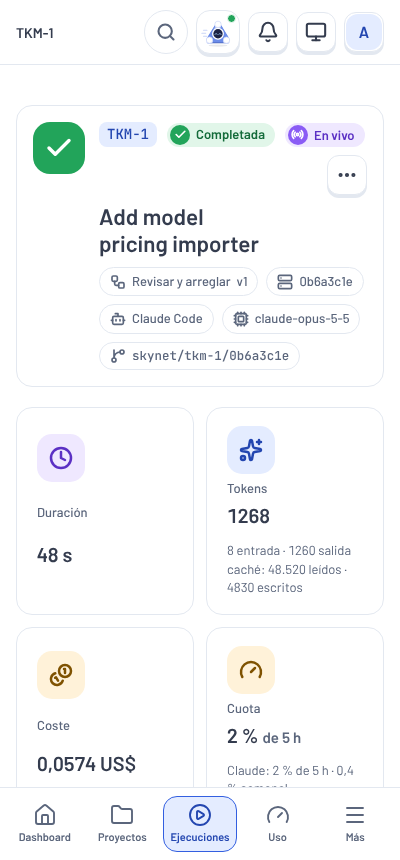
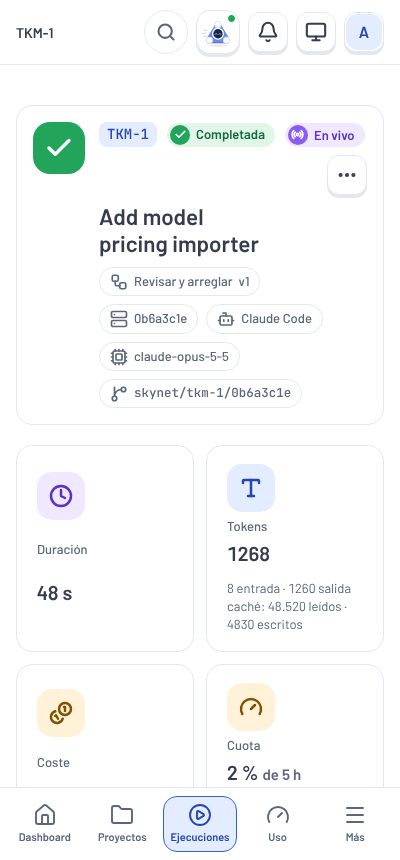
IC-A - Iconos del paquete en la página de ejecución
La cabecera (etiquetas y tarjetas) y las pestañas de una ejecución usan
<Icon>, así siguen el paquete elegido; con Ilustrados o ChatGPT las
tarjetas llevan el icono grande y suelto, como en el Resumen.

Claude-Session: https://claude.ai/code/session_01WdvCwqrrdnBTAy5VicARds

diff --git a/web/src/components/run/RunHeader.tsx b/web/src/components/run/RunHeader.tsx
@@ -1,18 +1,5 @@
 import { useMutation, useQuery, useQueryClient } from '@tanstack/react-query'
-import {
-  Bot,
-  Clock,
-  Coins,
-  Cpu,
-  FlaskConical,
-  Gauge,
-  GitBranch,
-  Server,
-  Sparkles,
-  Square,
-  Workflow,
-  type LucideIcon,
-} from 'lucide-react'
+import { Square } from 'lucide-react'
 import { useState, type ReactNode } from 'react'
 import { Link, useNavigate } from 'react-router'
 import { api, type AgentRun, type Run } from '../../api'
@@ -38,6 +25,7 @@ import { Pill } from '../ui/Pill'
 import { SimulatedPill } from '../ui/SimulatedPill'
 import { statusIcon, TONE_BADGE } from '../ui/statusIcons'
 import { Icon } from '../icons/Icon'
+import { useIconPack } from '../icons/pack'
 import type { IconName } from '../icons/registry'
 import { headlineShare, sharesByProvider, sharesLine } from '../usage/quotaFormat'
 import { AgentActions } from './AgentActions'
@@ -151,18 +139,18 @@ export function RunHeader({
           <h1>{run.workItemTitle ?? 'Ejecución'}</h1>
           <ul className="hero-chips" aria-label="Detalles de la ejecución">
             {run.workflow && (
-              <Chip icon={Workflow} label="Workflow">
+              <Chip icon="workflows" label="Workflow">
                 <Link to={`/workflows/${encodeURIComponent(run.workflow.key)}`}>
                   {run.workflow.name ?? run.workflow.key}
                 </Link>{' '}
                 v{run.workflow.version}
               </Chip>
             )}
-            <Chip icon={Server} label="Runner">
+            <Chip icon="runners" label="Runner">
               {runner?.name ?? (runnerId ? runnerId.slice(0, 8) : 'sin asignar')}
             </Chip>
             {provider && (
-              <Chip icon={Bot} label="Proveedor">
+              <Chip icon="agent" label="Proveedor">
                 {providerName(provider)}
                 {simulated && (
                   <>
@@ -173,12 +161,12 @@ export function RunHeader({
               </Chip>
             )}
             {model && (
-              <Chip icon={Cpu} label="Modelo">
+              <Chip icon="model" label="Modelo">
                 {model}
               </Chip>
             )}
             {branch && (
-              <Chip icon={GitBranch} label="Rama">
+              <Chip icon="branch" label="Rama">
                 <span className="mono">{branch}</span>
               </Chip>
             )}
@@ -234,11 +222,11 @@ export function RunHeader({
         />
       )}
       <dl className="kpis run-kpis">
-        <Kpi icon={Clock} tone="live" label="Duración">
+        <Kpi icon="duration" tone="live" label="Duración">
           {formatDuration(elapsed(run.startedAt ?? run.createdAt, run.finishedAt, now))}
         </Kpi>
         <Kpi
-          icon={Sparkles}
+          icon="prompt"
           tone="primary"
           label="Tokens"
           sub={
@@ -259,7 +247,7 @@ export function RunHeader({
           {noTokens ? '—' : formatNumber((totals.inputTokens ?? 0) + (totals.outputTokens ?? 0))}
         </Kpi>
         <Kpi
-          icon={Coins}
+          icon="cost"
           tone="warn"
           label="Coste"
           sub={totals.costUsd == null && running && 'Llega al terminar'}
@@ -267,7 +255,7 @@ export function RunHeader({
           {formatCost(totals.costUsd)}
         </Kpi>
         <Kpi
-          icon={Gauge}
+          icon="usage"
           tone="warn"
           label="Cuota"
           sub={
@@ -291,7 +279,7 @@ export function RunHeader({
         {/* Sin verificación, los tests no aplican: el hueco se queda vacío. */}
         {verification ? (
           <Kpi
-            icon={FlaskConical}
+            icon="simulated"
             tone={statusTone(verification.status) === 'bad' ? 'bad' : 'ok'}
             label="Tests"
             sub={<StatusBadge status={verification.status} />}
@@ -321,18 +309,10 @@ function HeroBadge({ tone, icon }: { tone: StatusTone; icon: IconName }) {
   )
 }
 
-function Chip({
-  icon: Icon,
-  label,
-  children,
-}: {
-  icon: LucideIcon
-  label: string
-  children: ReactNode
-}) {
+function Chip({ icon, label, children }: { icon: IconName; label: string; children: ReactNode }) {
   return (
     <li className="chip" title={label}>
-      <Icon size={16} strokeWidth={2.5} aria-hidden="true" />
+      <Icon name={icon} size={18} strokeWidth={2.25} />
       <span className="visually-hidden">{label}: </span>
       {children}
     </li>
@@ -340,22 +320,24 @@ function Chip({
 }
 
 function Kpi({
-  icon: Icon,
+  icon,
   tone,
   label,
   sub,
   children,
 }: {
-  icon: LucideIcon
+  icon: IconName
   tone: 'live' | 'primary' | 'warn' | 'ok' | 'bad'
   label: string
   sub?: ReactNode
   children: ReactNode
 }) {
+  // Con un paquete ilustrado, el dibujo va suelto y grande, como en el dashboard.
+  const art = useIconPack() !== 'lucide'
   return (
     <div className={cn('kpi kpi-main', `kpi-${tone}`)}>
-      <span className="kpi-icon" aria-hidden="true">
-        <Icon size={24} strokeWidth={2.5} />
+      <span className={cn('kpi-icon', art && 'kpi-icon-art')} aria-hidden="true">
+        <Icon name={icon} size={art ? 44 : 24} strokeWidth={2.5} />
       </span>
       <dt>{label}</dt>
       <dd>{children}</dd>

diff --git a/web/src/components/run/ArtifactsTab.tsx b/web/src/components/run/ArtifactsTab.tsx
@@ -1,5 +1,4 @@
 import { useQuery } from '@tanstack/react-query'
-import { ChevronRight, FileText, GitBranch, GitCommitHorizontal } from 'lucide-react'
 import { useEffect, useRef, useState } from 'react'
 import { api, type AgentRun, type ArtifactSummary } from '../../api'
 import { formatBytes, formatDateTime, isTerminal } from '../../format'
@@ -21,6 +20,7 @@ import { GeneratedFiles } from './GeneratedFiles'
 import { Button } from '../ui/Button'
 import { Pill } from '../ui/Pill'
 import { LinesSkeleton } from '../ui/Skeleton'
+import { Icon } from '../icons/Icon'
 
 const sum = (files: FileChange[], key: 'insertions' | 'deletions') =>
   files.reduce((n, f) => n + (f[key] ?? 0), 0)
@@ -96,7 +96,7 @@ function Changes({ changes, diff }: { changes: ArtifactSummary; diff?: ArtifactS
       <h3>Cambios</h3>
       <div className="git-summary">
         <span className="tag">
-          <GitBranch size={14} strokeWidth={2.5} aria-hidden="true" /> {git.branch}
+          <Icon name="branch" size={14} strokeWidth={2.5} /> {git.branch}
         </span>
         <span className="small">
           <code>{git.baseCommit.slice(0, 8)}</code> → <code>{git.headCommit.slice(0, 8)}</code>
@@ -159,7 +159,7 @@ function Changes({ changes, diff }: { changes: ArtifactSummary; diff?: ArtifactS
         <ol className="commit-list small">
           {git.commits.map((c) => (
             <li key={c.sha}>
-              <GitCommitHorizontal size={18} strokeWidth={2.5} aria-hidden="true" />
+              <Icon name="commit" size={18} strokeWidth={2.5} />
               <code className="sha">{c.sha.slice(0, 8)}</code>
               <span className="commit-subject">{c.subject}</span>
               <span className="muted">
@@ -212,13 +212,8 @@ function Logs({ artifacts }: { artifacts: ArtifactSummary[] }) {
               aria-expanded={open === a.id}
               onClick={() => setOpen(open === a.id ? null : a.id)}
             >
-              <ChevronRight
-                className="log-chevron"
-                size={16}
-                strokeWidth={2.75}
-                aria-hidden="true"
-              />
-              <FileText size={16} strokeWidth={2.5} aria-hidden="true" />
+              <Icon name="chevron-right" className="log-chevron" size={16} strokeWidth={2.75} />
+              <Icon name="file" size={16} strokeWidth={2.5} />
               {artifactLabel(a)}
             </Button>{' '}
             <span className="muted">

diff --git a/web/src/components/run/Conversation.tsx b/web/src/components/run/Conversation.tsx
@@ -1,5 +1,4 @@
 import { useMutation, useQuery } from '@tanstack/react-query'
-import { Bot, ChevronDown, User, Wrench } from 'lucide-react'
 import { useState, type FormEvent } from 'react'
 import { Link, useNavigate } from 'react-router'
 import { api, type AgentRun, type ConversationTurn, type StoredEvent } from '../../api'
@@ -12,6 +11,7 @@ import { LongText } from './LongText'
 import { Button } from '../ui/Button'
 import { Pill } from '../ui/Pill'
 import { unsupportedReason, useProviders } from '../providers'
+import { Icon } from '../icons/Icon'
 
 const KIND_LABELS: Record<AgentRun['kind'], string> = {
   START: 'Lanzamiento',
@@ -82,7 +82,7 @@ export function Conversation({
               {turn.prompt && (
                 <div className="msg msg-user">
                   <span className="avatar avatar-user" aria-hidden="true">
-                    <User size={20} />
+                    <Icon name="user" size={20} />
                   </span>
                   <div className="bubble bubble-user">
                     <p className="bubble-meta">Tú</p>
@@ -94,7 +94,7 @@ export function Conversation({
                 item.kind === 'message' ? (
                   <div key={item.sequence} className="msg">
                     <span className="avatar avatar-agent" aria-hidden="true">
-                      <Bot size={20} />
+                      <Icon name="agent" size={20} />
                     </span>
                     <div className="bubble bubble-agent">
                       <p className="bubble-meta">
@@ -152,14 +152,14 @@ function ToolCard({
     <details className="tool-card">
       <summary>
         <span className={`tool-card-icon icon-${tone}`} aria-hidden="true">
-          <Wrench size={16} />
+          <Icon name="tool" size={16} />
         </span>
         <span className="tool-card-name">
           <strong>{call.name}</strong>
           <span className="tool-card-arg">{toolSummary(call.input).replace(/^: /, '')}</span>
         </span>
         <Pill tone={tone}>{running ? 'En curso' : call.isError ? 'Error' : 'Hecha'}</Pill>
-        <ChevronDown size={18} className="tool-card-chevron" aria-hidden="true" />
+        <Icon name="chevron-down" size={18} className="tool-card-chevron" />
       </summary>
       <div className="tool-card-body">
         <JsonView value={call.input} label="Entrada" />

diff --git a/web/src/components/run/VerificationTab.tsx b/web/src/components/run/VerificationTab.tsx
@@ -1,5 +1,4 @@
 import { useMutation, useQuery, useQueryClient } from '@tanstack/react-query'
-import { Bot, RotateCw, ShieldCheck } from 'lucide-react'
 import type { ReactNode } from 'react'
 import { api, type AgentRun, type StoredEvent, type VerificationResult } from '../../api'
 import { elapsed, formatDateTime, formatDuration, isTerminal, workspaceUsable } from '../../format'
@@ -12,6 +11,7 @@ import { JsonView } from './JsonView'
 import { LongText } from './LongText'
 import { Button } from '../ui/Button'
 import { LinesSkeleton } from '../ui/Skeleton'
+import { Icon } from '../icons/Icon'
 
 /**
  * Lo que declara el agente (su respuesta y su salida estructurada) frente a lo que comprobó Skynet
@@ -40,7 +40,7 @@ export function VerificationTab({ agent, events }: { agent: AgentRun; events: St
       <div className="side-by-side">
         <section className="verify-card" aria-labelledby="declared-title">
           <h3 id="declared-title">
-            <Bot size={18} strokeWidth={2.5} aria-hidden="true" /> Declarado por el agente
+            <Icon name="agent" size={18} strokeWidth={2.5} /> Declarado por el agente
           </h3>
           <p className="small">
             Resultado: <code>{agent.resultSubtype ?? '—'}</code>
@@ -59,7 +59,7 @@ export function VerificationTab({ agent, events }: { agent: AgentRun; events: St
         </section>
         <section className="verify-card" aria-labelledby="verified-title">
           <h3 id="verified-title">
-            <ShieldCheck size={18} strokeWidth={2.5} aria-hidden="true" /> Verificado por Skynet
+            <Icon name="verification" size={18} strokeWidth={2.5} /> Verificado por Skynet
           </h3>
           <ErrorMessage error={verifications.error} />
           {verifications.data == null && !verifications.error && (
@@ -81,7 +81,7 @@ export function VerificationTab({ agent, events }: { agent: AgentRun; events: St
           onClick={() => rerun.mutate()}
           disabled={!canRerun || rerun.isPending}
         >
-          <RotateCw size={16} strokeWidth={2.5} aria-hidden="true" />
+          <Icon name="refresh" size={16} strokeWidth={2.5} />
           {rerun.isPending ? 'Encolando…' : 'Reejecutar verificación'}
         </Button>{' '}
         {live && <span className="muted small">Hay una verificación en curso.</span>}

diff --git a/web/src/components/run/GeneratedFiles.tsx b/web/src/components/run/GeneratedFiles.tsx
@@ -1,5 +1,4 @@
 import { useQuery } from '@tanstack/react-query'
-import { ChevronRight, Download, FileText } from 'lucide-react'
 import { useState, type ReactNode } from 'react'
 import Markdown from 'react-markdown'
 import remarkGfm from 'remark-gfm'
@@ -10,6 +9,7 @@ import { MAX_CHUNK, previewKind, safeLink, type PreviewKind } from './artifacts'
 import { CodeView } from './CodeView'
 import { Button } from '../ui/Button'
 import { LinesSkeleton } from '../ui/Skeleton'
+import { Icon } from '../icons/Icon'
 
 const baseName = (path: string) => path.slice(path.lastIndexOf('/') + 1)
 
@@ -37,18 +37,13 @@ export function GeneratedFiles({ files }: { files: ArtifactSummary[] }) {
                   aria-label={`Abrir ${f.name}`}
                   onClick={() => setOpen(open === f.id ? null : f.id)}
                 >
-                  <ChevronRight
-                    className="log-chevron"
-                    size={16}
-                    strokeWidth={2.75}
-                    aria-hidden="true"
-                  />
-                  <FileText size={16} strokeWidth={2.5} aria-hidden="true" />
+                  <Icon name="chevron-right" className="log-chevron" size={16} strokeWidth={2.75} />
+                  <Icon name="file" size={16} strokeWidth={2.5} />
                   <span className="file-path">{f.name}</span>
                 </Button>
               ) : (
                 <span className="file-path">
-                  <FileText size={16} strokeWidth={2.5} aria-hidden="true" /> {f.name}
+                  <Icon name="file" size={16} strokeWidth={2.5} /> {f.name}
                 </span>
               )}{' '}
               <span className="muted">
@@ -63,7 +58,7 @@ export function GeneratedFiles({ files }: { files: ArtifactSummary[] }) {
                   download={baseName(f.name)}
                   aria-label={`Descargar ${f.name}`}
                 >
-                  <Download size={14} strokeWidth={2.5} aria-hidden="true" /> Descargar
+                  <Icon name="download" size={14} strokeWidth={2.5} /> Descargar
                 </a>
               )}
               {!previewable && <NoPreview kind={kind} size={f.size} />}

diff --git a/web/src/components/run/StageRetry.tsx b/web/src/components/run/StageRetry.tsx
@@ -1,10 +1,10 @@
 import { useMutation, useQueryClient } from '@tanstack/react-query'
-import { RotateCcw } from 'lucide-react'
 import { useState } from 'react'
 import { api, type Run, type StageRun } from '../../api'
 import { ErrorMessage } from '../ErrorMessage'
 import { Button } from '../ui/Button'
 import { joinNames, retryScope } from './stageNotes'
+import { Icon } from '../icons/Icon'
 
 /**
  * «Reintentar fase» en una ejecución fallida o cancelada (W6-C). Antes de confirmar dice el alcance:
@@ -29,7 +29,7 @@ export function StageRetry({ stage, run }: { stage: StageRun; run: Run }) {
     return (
       <div className="stage-retry">
         <Button variant="secondary" onClick={() => setConfirming(true)}>
-          <RotateCcw size={16} strokeWidth={2.75} aria-hidden="true" />
+          <Icon name="retry" size={16} strokeWidth={2.75} />
           Reintentar fase
         </Button>
       </div>

diff --git a/docs/tests/probar-ic-a.md b/docs/tests/probar-ic-a.md
@@ -79,5 +79,6 @@ cd web && npm run lint && npm run format:check && npm run typecheck && npx vites
 1. En toda la web: fondo **blanco**, paneles con borde fino y **sin sombra**, los botones (y enlaces con forma de botón) con su sombra inferior de Duolingo que se hunde al pulsarlos, textos en gris (nunca negro), la barra lateral y los botones en minúsculas y sin negrita gruesa, y más espacio entre bloques.
 2. **Dashboard**, de arriba abajo: saludo con la mascota y «Lanzar agente»; el aviso de Skynet con «Lanzar un workflow» como botón principal; **Resumen (últimos 7 días)** con «Ver más detalles →» y las ocho tarjetas; **Necesita tu atención**; el gráfico; **Ejecuciones recientes** (las 5 últimas, con «Ver todas →»); y los runners.
 3. Con los paquetes **Ilustrados** o **ChatGPT**, las tarjetas del Resumen llevan el icono grande y suelto, sin baldosa; con **Lucide**, el icono va sobre su baldosa de color.
-4. Cambia el periodo a **24 horas**: el título pasa a «Resumen (últimas 24 horas)» y el gráfico, a horas.
-5. **Tema oscuro** y **móvil** (390 px): se lee bien, sin cortes ni scroll horizontal.
+4. **Página de una ejecución** con Ilustrados o ChatGPT: las tarjetas (Duración, Tokens, Coste, Cuota, Tests) llevan el icono grande del paquete, y las etiquetas de la cabecera (workflow, runner, agente, modelo, rama) y las pestañas (conversación, archivos, artefactos, verificación, reintentar) usan los iconos del paquete. Con Lucide se ve como antes.
+5. Cambia el periodo a **24 horas**: el título pasa a «Resumen (últimas 24 horas)» y el gráfico, a horas.
+6. **Tema oscuro** y **móvil** (390 px): se lee bien, sin cortes ni scroll horizontal.
